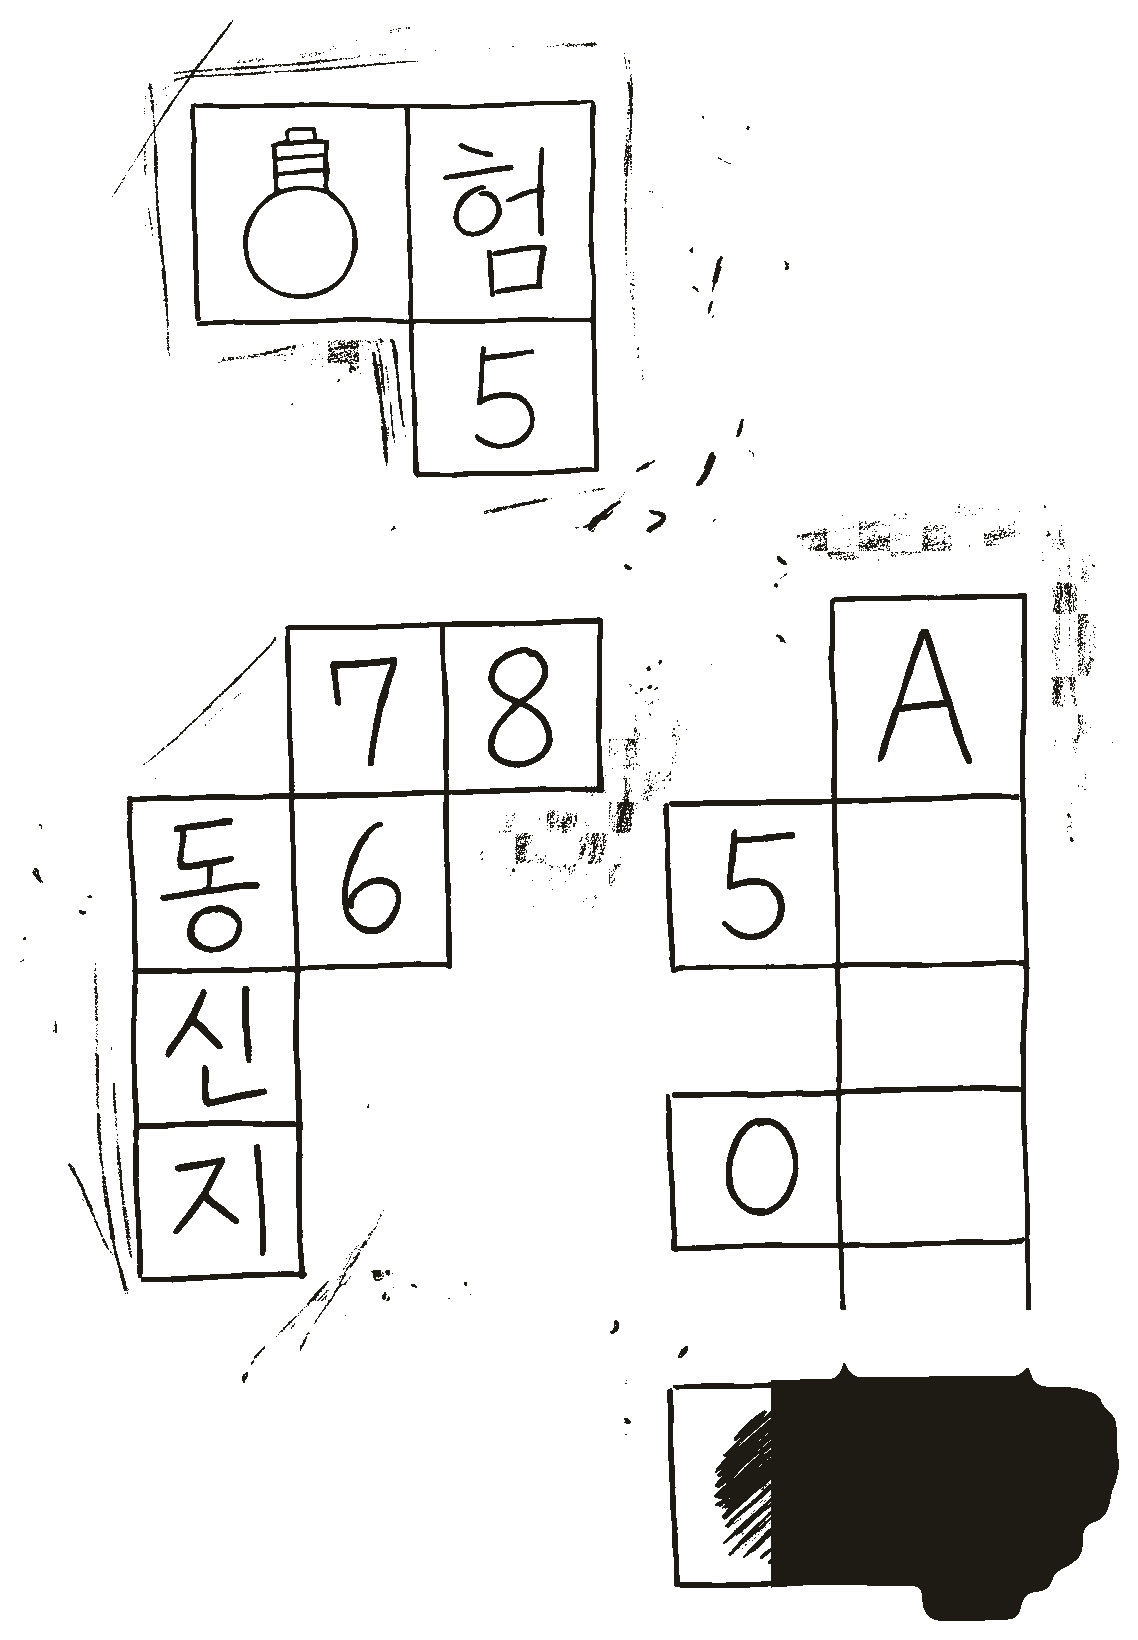
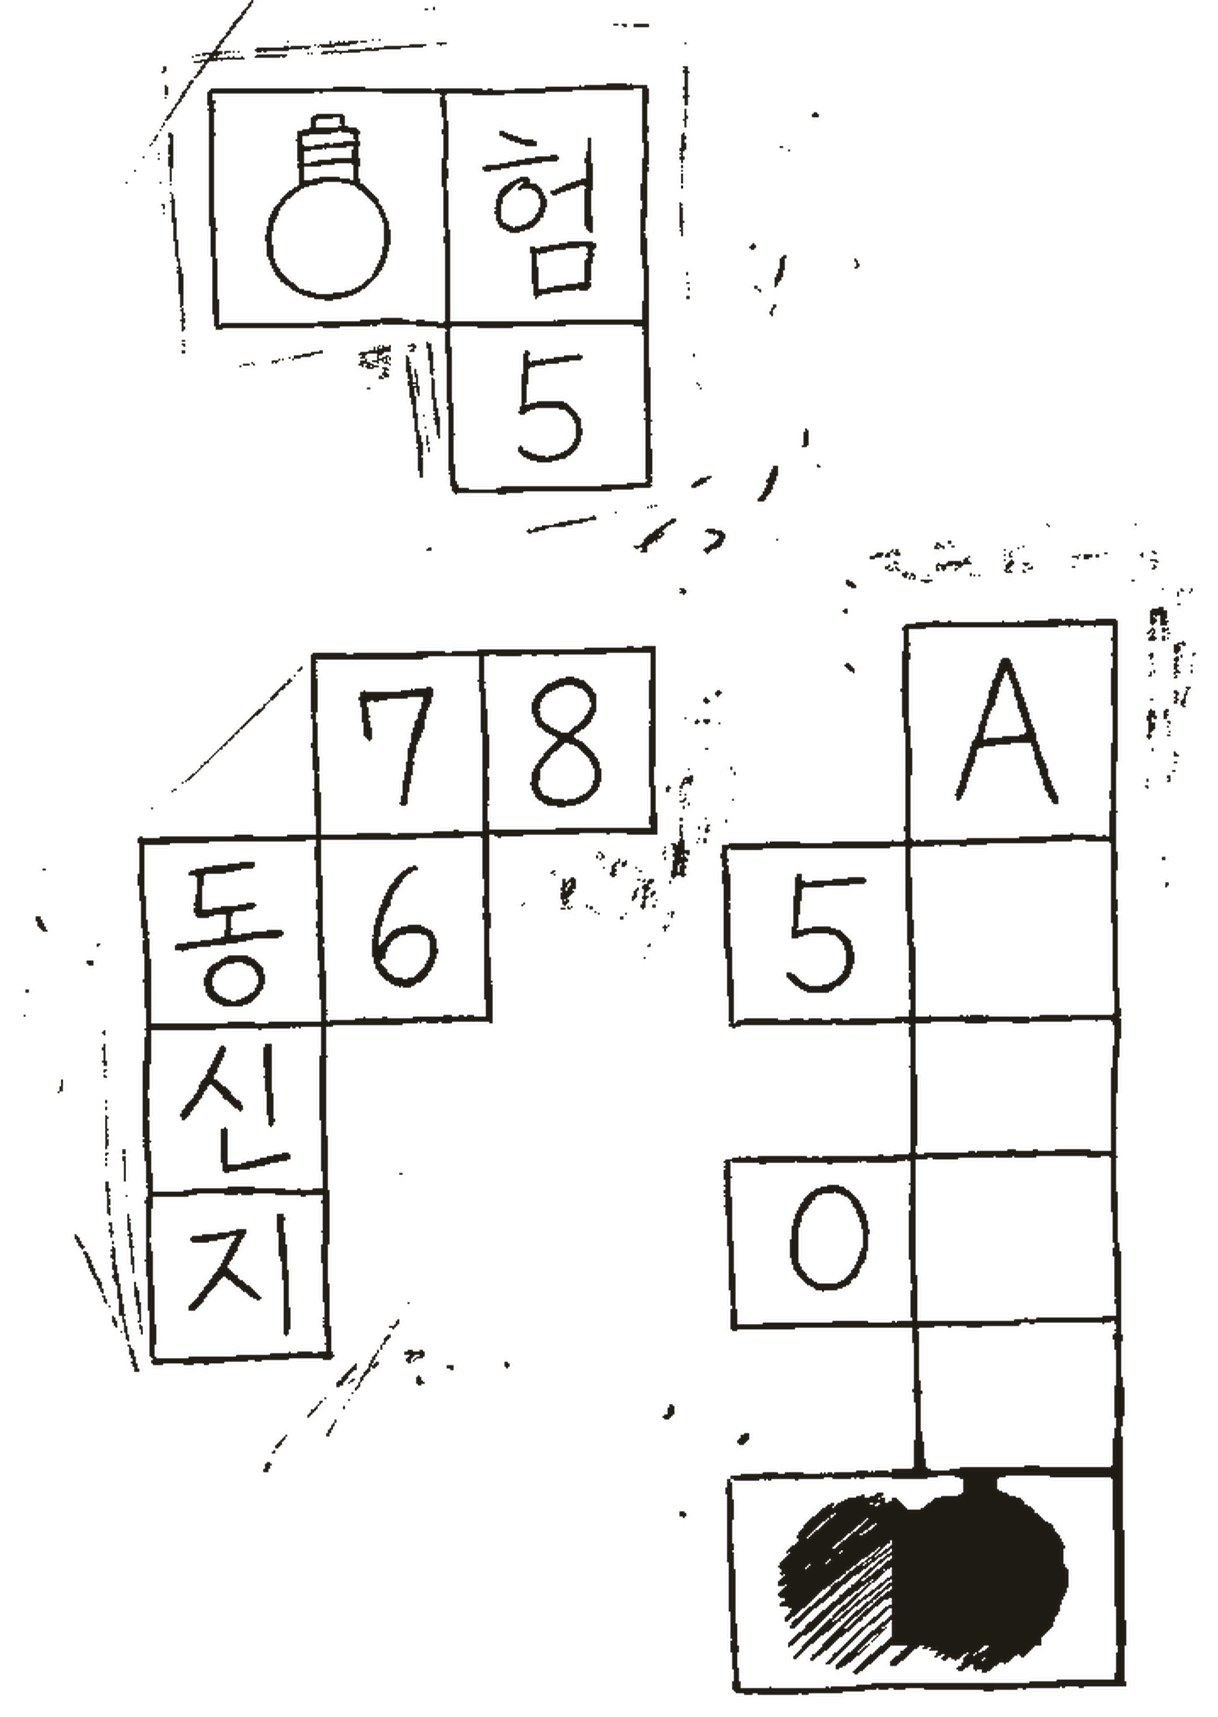
Use the provided clean kit sketch for FILE_11 as-is
Claude-Session: https://claude.ai/code/session_01JNSv2zALJDpwVya8qsmDtn

diff --git a/index.html b/index.html
@@ -1468,7 +1468,7 @@ const files = [
   {num:12,name:'FILE_11',sub:'전신주 390-94 — 세 번째 흔적',icon:'📍',unlocked:false,
    answer:'현장 확인',unlockCode:'390-94',unlockSeparator:{char:'-',after:3},answerLen:5,
    content:`<div class="detail-section"><div class="detail-section-title">▶ 사건 일지 — 2025. 07. 15</div><div>NCI 정보국에서 알려준 전신주 위치, 연남동 390-94에 도착했다.<br>주변을 둘러보니 BLANK의 흔적으로 보이는 표식이 남아있다.<br><br>이 흔적이 다음 단서로 이어질 것 같다.</div></div>
-   <img class="detail-photo" style="border-radius:0;cursor:default;" src="assets/file11_kit.png?v=2" alt="KIT 메모">`,
+   <img class="detail-photo" style="border-radius:0;cursor:default;" src="assets/file11_kit.png?v=3" alt="KIT 메모">`,
    hints:['연남동 390-94 주변 전신주와 표지판을 자세히 살펴보세요.','표식이나 스티커가 남아있는 곳을 찾아 키트와 대조해보세요.'],answerText:'정답: 현장에서 발견한 표식을 키트와 대조'},
 
   // #13 FILE_12
